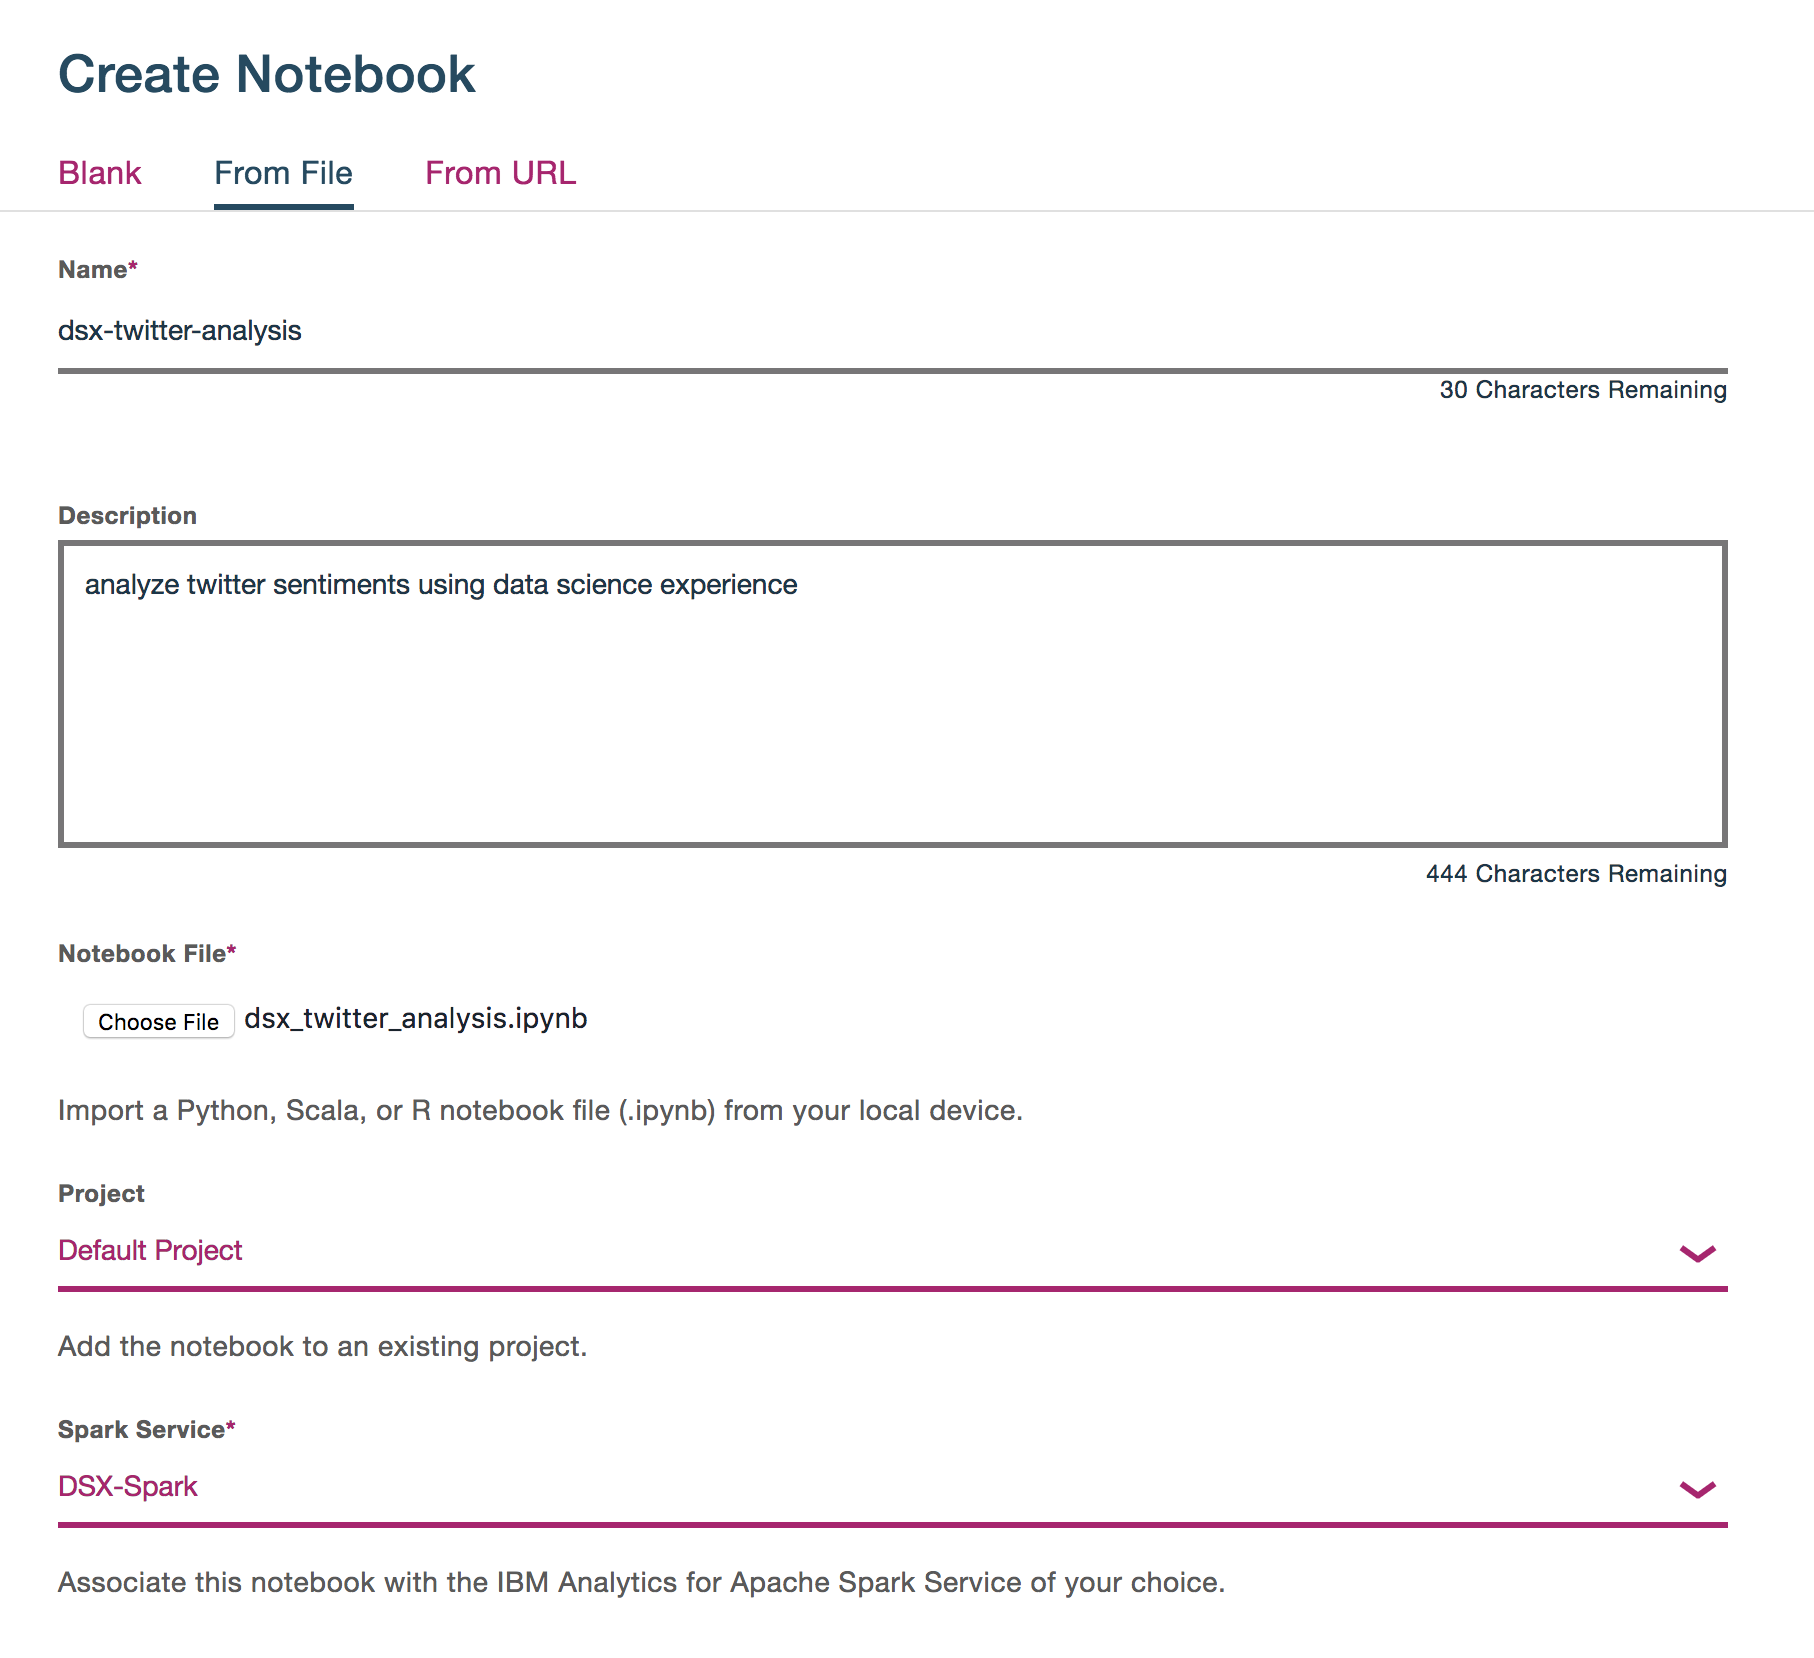
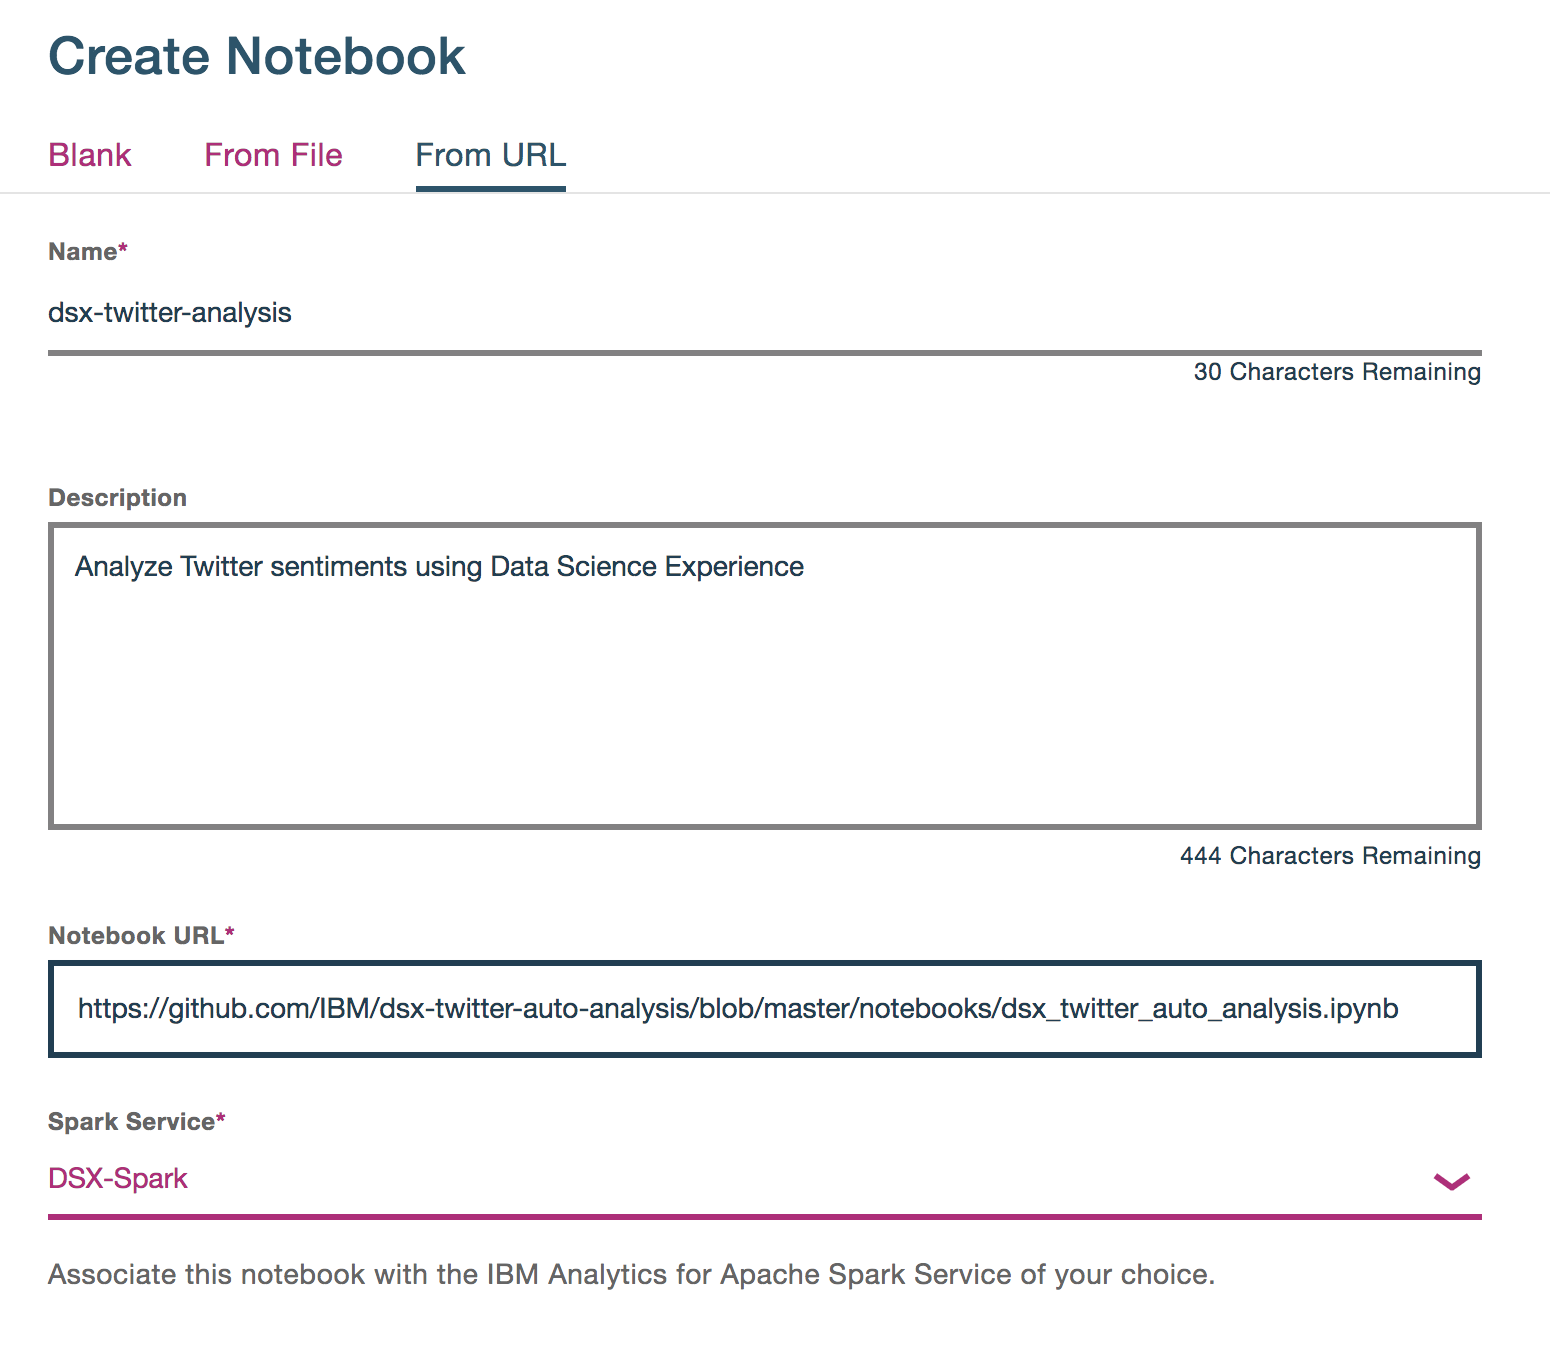
Update the steps. No need for clone. Use from URL.

diff --git a/README.md b/README.md
@@ -37,43 +37,36 @@ team who could take ownership of such an effort.
 
 # Steps
 
-Perform steps 1-7 or choose the **Deploy to Bluemix** button and jump to step 4.
+Follow these steps to setup and run this developer journey. The steps are
+described in detail below.
 
-[![Deploy to Bluemix](https://bluemix.net/deploy/button.png)](https://bluemix.net/deploy?repository=https://github.com/ibm/dsx-twitter-auto-analysis)
+1. [Sign up for the Data Science Experience](#1-sign-up-for-the-datascience-experience)
+2. [Create Bluemix services](#2-create-bluemix-services)
+3. [Configure dashDB](#3-configure-dashdb)
+4. [Create the notebook](#4-create-the-notebook)
+5. [Run the notebook](#5-run-the-notebook)
+6. [Analyze the results](#6-analyze-the-results)
+7. [Save and Share](#7-save-and-share)
 
-1. [Clone the repo](#1-clone-the-repo)
-2. [Sign up for the DataScience Experience](#2-sign-up-for-the-datascience-experience)
-3. [Create Bluemix services](#3-create-bluemix-services)
-4. [Configure dashDB](#4-configure-dashdb)
-5. [Creating the notebook](#5-creating-the-notebook)
-6. [Running the notebook](#6-running-the-notebook)
-7. [Analyzing the results](#7-analyzing-the-results)
-8. [Saving and Sharing](#8-saving-and-sharing)
-
-## 1. Clone the repo
-
-Clone the `dsx-auto-twitter-analysis` locally. In a terminal, run:
-
-  `$ git clone https://github.com/ibm/dsx-auto-twitter-analysis`
-
-We’ll be using the file [`notebooks/dsx_twitter_auto_analysis.ipynb`](notebooks/dsx_twitter_auto_analysis.ipynb).
-
-## 2. Sign up for the DataScience Experience
+## 1. Sign up for the Data Science Experience
 
 Sign up for IBM's [Data Science Experience](http://datascience.ibm.com/). By signing up for the Data Science Experience, two services: ``DSX-Spark`` and ``DSX-ObjectStore`` will be created in your Bluemix account.
 
-## 3. Create Bluemix services
+## 2. Create Bluemix services
 
-Create the following Bluemix services:
+Create the following Bluemix services by clicking the **Deploy to Bluemix**
+button or by following the links to use the Bluemix UI and create them.
 
-  * [**dashDB for Analytics**](https://console.ng.bluemix.net/catalog/services/dashdb-for-analytics)
   * [**Insights for Twitter**](https://console.ng.bluemix.net/catalog/services/insights-for-twitter)
+  * [**dashDB for Analytics**](https://console.ng.bluemix.net/catalog/services/dashdb-for-analytics)
+  
+[![Deploy to Bluemix](https://bluemix.net/deploy/button.png)](https://bluemix.net/deploy?repository=https://github.com/ibm/dsx-twitter-auto-analysis)
 
-## 4. Configure dashDB
+## 3. Configure dashDB
 
 The first step in the analysis process is to harvest the Twitter data. In
 this sample, we use the dashDB connector to the IBM Insights for Twitter
-service to seamlessly specify a filter query (tweeets about the six leading
+service to seamlessly specify a filter query (tweets about the six leading
 car manufacturers in 2015) and load the results into dashDB. This specific
 time frame and filter are being used to demonstrate analysis of a known
 Twitter spike.
@@ -82,7 +75,8 @@ Twitter spike.
   ``Load Twitter Data``. This is a five step process outlined below.
 
 * **Connect to Twitter**: Select the existing **dashDB** service you created
-  earlier
+  earlier (if you used the **Deploy to Bluemix** button it is named
+  "dtaa-dashdb-service").
 
 ![](doc/source/images/twitter_step1.png)
 
@@ -109,21 +103,21 @@ Twitter spike.
 
 ![](doc/source/images/twitter_step5.png)
 
-## 5. Creating the notebook
+## 4. Create the notebook
 
 Use the menu on the left to select `My Projects` and then `Default Project`.
 Click on `Add notebooks` (upper right) to create a notebook.
 
-* Select the `From File` tab.
+* Select the `From URL` tab.
 * Enter a name for the notebook.
 * Optionally, enter a description for the notebook.
-* Select `Choose File` and navigate to the `notebooks/dsx_twitter_analysis.ipynb`
-  file
+* Enter this Notebook URL: https://github.com/IBM/dsx-twitter-auto-analysis/blob/master/notebooks/dsx_twitter_auto_analysis.ipynb
 * Use the `Spark Service` pulldown to select your `DSX-Spark` service.
+* Click the `Create Notebook` button.
 
 ![](doc/source/images/create_notebook.png)
 
-## 6. Running the notebook
+## 5. Run the notebook
 
 At the top of the notebook, provide your dashDB info.
 
@@ -160,7 +154,7 @@ There are several ways to execute the code cells in your notebook:
     panel. Here you can schedule your notebook to be executed once at some future
     time, or repeatedly at your specified interval.
 
-## 7. Analyzing the results
+## 6. Analyze the results
 
 The result of running the notebook is a report which may be shared with or
 without sharing the code. You can share the code for an audience that wants
@@ -182,7 +176,7 @@ The charts produced in the journey clearly demonstrate the following:
   significantly unknown. If we were to assume that the known-gender tweets
   are a good representative, then we could say predominantly male.
 
-## 8. Saving and Sharing
+## 7. Save and Share
 
 ### How to save your work:
 
